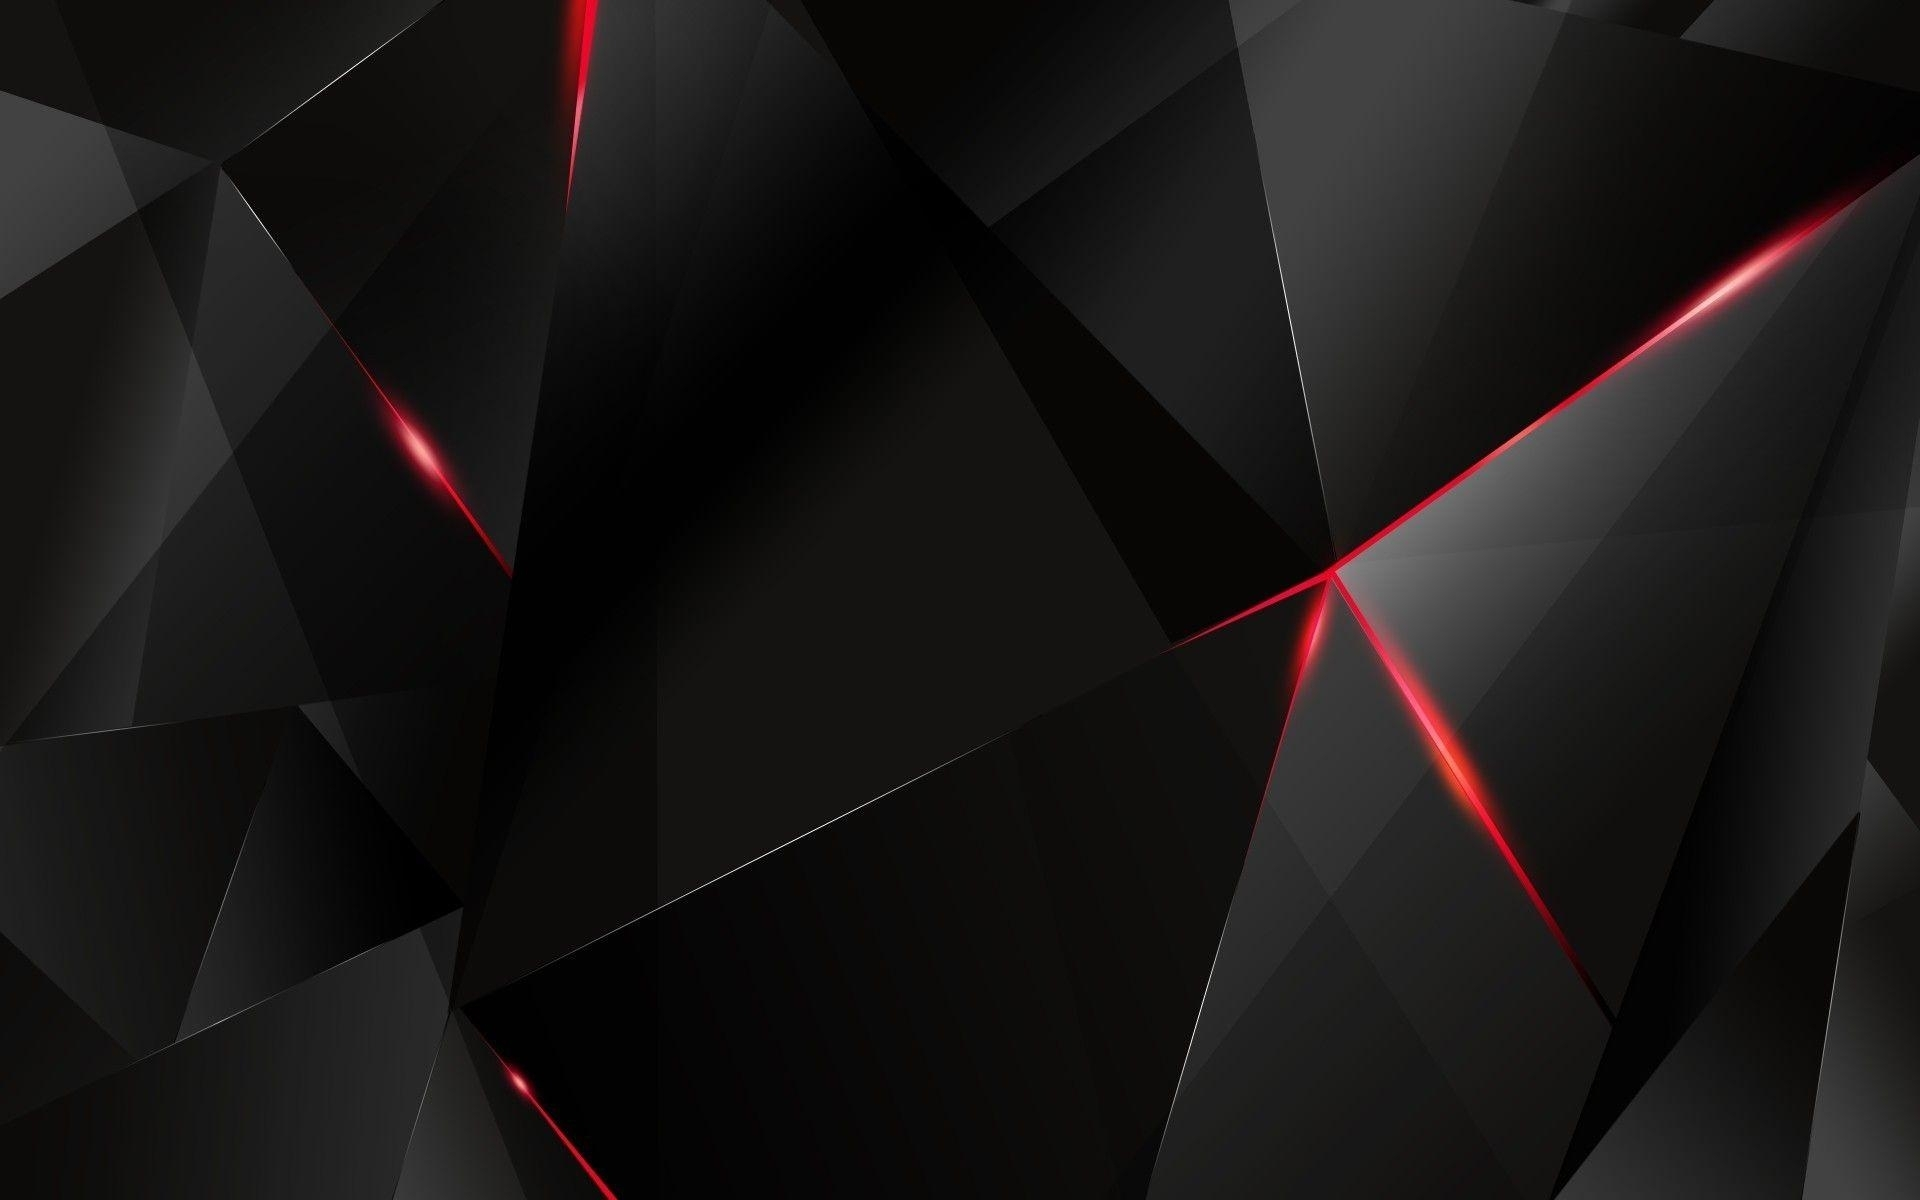
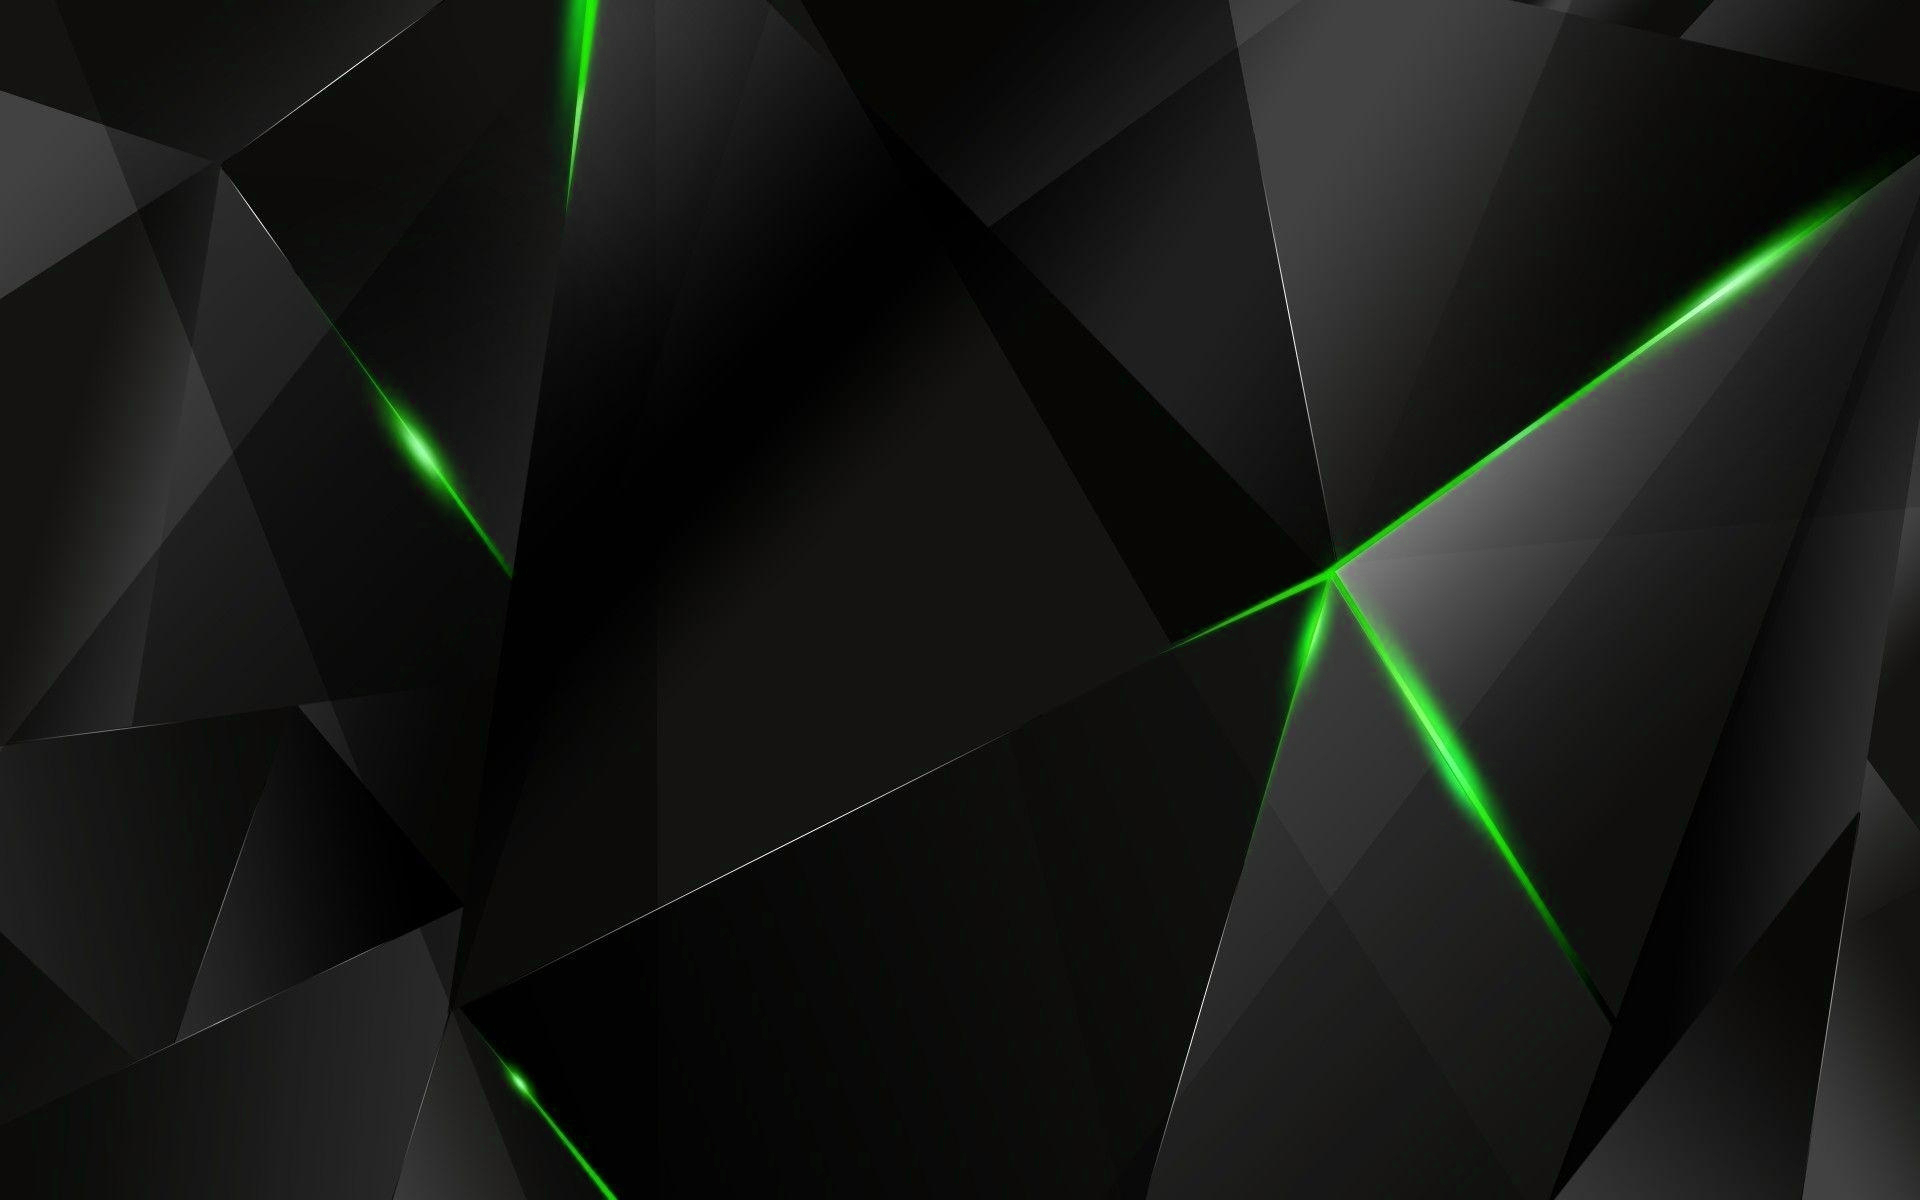
update

diff --git a/index.html b/index.html
@@ -6,7 +6,7 @@
      <meta name="viewport"
           content="width=device-width, user-scalable=no, initial-scale=1.0, maximum-scale=1.0, minimum-scale=1.0">
      <meta http-equiv="X-UA-Compatible" content="ie=edge">
-     <title>TRX Chain</title>
+     <title>TRX Wealth</title>
      <link rel="stylesheet" href="/modules/site/main/assets/styles/odometer-theme-digital.css">
      <link rel="stylesheet" href="/modules/site/main/assets/styles/styles.css?1602611159">
      <link rel="icon" href="/modules/site/main/assets/images/favicon.png" type="image/png" />
@@ -30,7 +30,7 @@
                     <div class="header__grow"></div>
                     <div class="header__item">
                          <div class="header__label">&nbsp;</div>
-                         <div class="header__value lang">
+                         <!-- <div class="header__value lang">
                               <div>Explore</div>
                               <ul>
                                    <li><a href="https://cyberchain.cc" target="_blank">CyberChain</a></li>
@@ -38,7 +38,7 @@
                                    <li><a href="https://ume.finance" target="_blank">Ume.Finance</a></li>
                                    <li><a href="https://eclipcity.io" target="_blank">Eclipcity</a></li>
                               </ul>
-                         </div>
+                         </div> -->
                     </div>
                     <div class="header__item">
                          <div class="header__label">System language</div>
@@ -62,7 +62,7 @@
                     width="96"><img class="top-heading" src="/modules/site/main/assets/images/logo-desktop.png"><img
                     class="top-heading-mobile" src="/modules/site/main/assets/images/logo-mobile.png">
                <div class="container" v-show="tab == 'main'">
-                    <p>A financial system built on smart contract technology.<br>Open to all, transparent to all.</p>
+                    <p><b>Earn 210% returns monthly(7% daily) Guaranteed on a verified Smart contract</b><br>Open to all, transparent to all.</p>
                     <div class="counter-wrapper"><span>$</span>
                          <div class="odometer" ref="odometer">{{ contract.balance * rates.trx }}</div>
                     </div>
@@ -91,7 +91,7 @@
                     <h2 class="join">Join</h2>
                     <div class="panel-join">
                          <div class="panel-join-background"><img class="desktop"
-                                   src="/modules/site/main/assets/images/join.svg"><img class="mobile"
+                                   src="/modules/site/main/assets/images/join.png"><img class="mobile"
                                    src="/modules/site/main/assets/images/mobile-join.png"></div>
                          <div class="panel-join-display"><span>{{ deposit_amount.toFixed(0) }}</span><span>TRX</span>
                          </div>
@@ -122,7 +122,7 @@
                          <h3>Smart contract info</h3>
                          <div>
                               <div class="panel-info-item"><span>Smart contract address</span><a
-                                        :href="'https://tronscan.org/#/contract/' + contract_address"
+                                        :href="'https://shasta.tronscan.org/#/contract/' + contract_address"
                                         target="_blank">{{ contract_address.substr(0, 8) }}...</a></div>
                               <div class="panel-info-item"><span>Total TRX deposits all time</span><span
                                         class="ether-value">{{ safe(contract.total_deposited.toLocaleString()) }}
@@ -198,7 +198,7 @@
                               <div class="panel-info-item"><span>Invitation link</span><a class="btn"
                                         v-if="tron.account" :href="location.origin + '#ref=' + tron.account"
                                         target="_blank"
-                                        @click.prevent="copyText('https://trxchain.io/#ref=' + tron.account)">Copy</a><span
+                                        @click.prevent="copyText('https://tronwealth.co/#ref=' + tron.account)">Copy</a><span
                                         class="ether-value" v-if="!tron.account">---</span></div>
                               <div class="panel-info-item"><span>Personal invited partners</span><span
                                         class="ether-value" v-text="safe(user.referrals)"></span></div>
@@ -217,18 +217,18 @@
                     <h3>Guide</h3>
                     <p>Welcome to the world´s first decentralized community support fund built on TRON blockchain and
                          smart contract technology.</p>
-                    <p>The TRONCHAIN Smart Contract is designed to provide everyone with an independent, financial
+                    <p>The TronWealth Smart Contract is designed to provide everyone with an independent, financial
                          support fund, based on Smart Contract technology, surrounded and supported by multiple services
-                         including DEFI and online gaming through ECLIPCITY.</p>
-                    <p>Any participant can contribute TRX towards the community fund and support the TRONCHAIN community
+                         </p>
+                    <p>Any participant can contribute TRX towards the community fund and support the TronWealth community
                          members, the participant will now activate the contract code and will start to receive support
                          back from other community members.</p>
-                    <p>TRONCHAIN is 100% decentralized and a community-based project; Meaning that there are no
-                         guarantee nor additional profits made in TRONCHAIN alone, all that you receive from TRONCHAIN
+                    <p>TronWealth is 100% decentralized and a community-based project; Meaning that there are no
+                         guarantee nor additional profits made in TronWealth alone, all that you receive from TronWealth
                          is made from other community members and based upon your own and the community efforts as this
                          is a P2P support model.</p>
                     <p>You support others and others support you back.</p>
-                    <p>TRONCHAIN can actually be viewed as a decentralized “third party” which insures complete
+                    <p>TronWealth can actually be viewed as a decentralized “third party” which insures complete
                          fairness, transparency and justice for all according to the algorithm code.</p>
                     <p>There are no mediators or intermediaries, no owners, no company, no CEO and no human interaction,
                          which is effectively guaranteeing the fairness of all participating partners and partners funds
@@ -236,7 +236,7 @@
                     <p>It is the most reasonable, safest, and best cutting-edge financial SUPPORT model available at
                          this time.</p>
                     <hr /><br />
-                    <p>You can participate in TRONCHAIN a minimum deposit of 100 TRX to the Fund, you are now eligible
+                    <p>You can participate in TronWealth a minimum deposit of 100 TRX to the Fund, you are now eligible
                          to receive 210% back</p>
                     <p>The 210% is returned in 4 ways (1 passive and 3 via marketing) and when the 210% is accumulated
                          through any of the 4 ways, a new deposit must be made equal or greater to continue receiving
@@ -270,7 +270,7 @@
                     <p>4th cycle and beyond, equal or greater than previous deposit, up to 2 000 000 TRX.</p>
                     <hr /><br />
                     <p>IMPORTANT NOTES*</p>
-                    <p>*TRX CHAIN is a community-based project, 100% decentralized, P2P transactions through Smart
+                    <p>*TRX Wealth is a community-based project, 100% decentralized, P2P transactions through Smart
                          Contract.</p>
                     <p>*Each Deposit Cycle is 210%.</p>
                     <p>*When 210% is received, a new deposit must be made to continue earning / receiving from any of
@@ -279,7 +279,7 @@
                     <p>*No referrals required in order to receive the 7% that pays out daily to all members, 100%
                          passive.</p>
                     <p>*Increase the speed of your returns by growing the community fund through marketing / sharing of
-                         TRX CHAIN.</p>
+                         TRX Wealth.</p>
                     <p>*Admin and Dev team is developing and deploying multiple services within DEFI, marketing, Online
                          gaming, Crypto Debit card, Unified Tech Service and much more to complete the vision of a
                          complete decentralized financial support system.</p><br><a href="/"
@@ -289,11 +289,11 @@
           <section class="section" v-show="tab == 'tutorial'">
                <div class="page">
                     <h3>How to join</h3>
-                    <p>To join TRON CHAIN you need to use one of the following Dapp wallets.</p>
+                    <p>To join TRON WEALTH you need to use one of the following Dapp wallets.</p>
                     <p>To connect with the smart contract, please download, set up, and fund your preferred wallet from
                          the instructions below.</p>
-                    <p>*it is mandatory to use a referral link 1st time depositing to TRON CHAIN smart contract, please
-                         get back to the person that introduced you to TRON CHAIN.</p>
+                    <p>*it is mandatory to use a referral link 1st time depositing to TRON WEALTH smart contract, please
+                         get back to the person that introduced you to TRON WEALTH.</p>
                     <p>PHONE WALLET -</p>
                     <p>TRON WALLET - download at offical site:<br /><a href="https://www.tronwallet.me/" target="_blank"
                               rel="nofollow noopener noreferrer">https://www.tronwallet.me/</a></p>
@@ -315,12 +315,12 @@
                     <p>How download TRONLINK browser extension?</p>
                     <p>Official website:&nbsp;<a href="https://www.tronlink.org/" target="_blank"
                               rel="nofollow noopener noreferrer">https://www.tronlink.org/</a></p>
-                    <p>How to connect TRONLINK to TRON CHAIN smart contract?</p>
-                    <p>Open Web browser with TronLink download<br />Enter&nbsp;<a href="https://trxchain.io/"
-                              target="_blank" rel="nofollow noopener noreferrer">TRXCHAIN.IO</a>&nbsp;(ref link) an
-                         click enter<br />Allow TRONLINK wallet to connect to&nbsp;<a href="https://trxchain.io/"
-                              target="_blank" rel="nofollow noopener noreferrer">trxchain.io</a></p>
-                    <p>*first time joining TRON CHAIN, follow these steps</p>
+                    <p>How to connect TRONLINK to TRON WEALTH smart contract?</p>
+                    <p>Open Web browser with TronLink download<br />Enter&nbsp;<a href="https://tronwealth.co/"
+                              target="_blank" rel="nofollow noopener noreferrer">tronwealth.co</a>&nbsp;(ref link) an
+                         click enter<br />Allow TRONLINK wallet to connect to&nbsp;<a href="https://tronwealth.co/"
+                              target="_blank" rel="nofollow noopener noreferrer">tronwealth.co</a></p>
+                    <p>*first time joining TRON WEALTH, follow these steps</p>
                     <p>copy ref link from sponsor<br />enter ref link into your pc browser with TRONLINK
                          extension<br />Select the amount you wish to deposit up to 100.000 TRX<br />Click join and
                          confirm transaction in wallet</p><br /><a href="/" @click.prevent="tab = 'main'">Back</a>
@@ -377,8 +377,8 @@
           </div>
      </main>
      <footer>
-          <div class="footer-content"><a href="https://t.me/trxchainofficial" target="_blank" class="btn">🏛 Official
-                    channel</a><a href="https://t.me/EclipCity_support" target="_blank" class="btn">🦹 Support team</a>
+          <div class="footer-content"><a href="https://t.me/tronwealthofficial" target="_blank" class="btn">🏛 Official
+                    channel</a><a href="https://t.me/ericmu" target="_blank" class="btn">🦹 Support team</a>
           </div>
      </footer>
      <script src="https://cdnjs.cloudflare.com/ajax/libs/jquery/3.5.1/jquery.min.js"></script>

diff --git a/modules/site/main/assets/styles/styles.css b/modules/site/main/assets/styles/styles.css
@@ -31,7 +31,7 @@ p {
   margin: 0 0 25px; }
 
 a {
-  color: #ff0000; }
+  color: #44bd32; }
 
 .section {
   padding: 30px 0 30px;
@@ -80,14 +80,14 @@ a {
     position: absolute;
     display: block;
     max-width: 100%;
-    top: 0;
+    top: 70px;
     left: 50%;
     transform: translateX(-50%); }
   .section-top .top-heading-mobile {
     position: absolute;
     display: none;
     max-width: 100%;
-    top: 20px;
+    top: 10px;
     left: 50%;
     transform: translateX(-50%); }
 
@@ -101,9 +101,9 @@ a {
   height: 82px;
   margin: 0 auto 45px;
   box-sizing: border-box;
-  border: 5px solid #ff0000;
+  border: 5px solid #44bd32;
   background: #040107 !important;
-  background: radial-gradient(#ff0000, #040107) !important;
+  background: radial-gradient(#44bd32, #040107) !important;
   line-height: 70px;
   font-size: 30px;
   color: #ffffff !important;
@@ -256,7 +256,7 @@ a {
       line-height: 50px;
       margin: 0 10px; }
       .panel-join-controls .button:last-child .button-content {
-      background-color: #ff0000;
+      background-color: #44bd32;
     }
       .panel-join-controls .button:last-child .button-content::before {
         position: absolute;
@@ -266,7 +266,7 @@ a {
         height: 0;
         border-style: solid;
         border-width: 26px 14px 25px 0;
-        border-color: transparent #ff0000 transparent transparent;
+        border-color: transparent #44bd32 transparent transparent;
         content: ''; }
       .panel-join-controls .button:last-child .button-content::after {
         position: absolute;
@@ -276,7 +276,7 @@ a {
         height: 0;
         border-style: solid;
         border-width: 26px 0 25px 14px;
-        border-color: transparent transparent transparent #ff0000;
+        border-color: transparent transparent transparent #44bd32;
         content: ''; }
     .panel-join-controls .button .button-image {
       top: 3px;

diff --git a/modules/site/main/assets/scripts/common.js b/modules/site/main/assets/scripts/common.js
@@ -707,7 +707,7 @@
         el: '#App',
         data: {
             tab: 'main',
-            contract_address: 'TY2CsYhmc92SLwfmVFw36JFCFMdErGSFqN',
+            contract_address: 'TXJZ4gDddnk6s8Bg6kG54ELpFrCicjvcnp',
             upline: '',
             contract: {
                 balance: 0,
